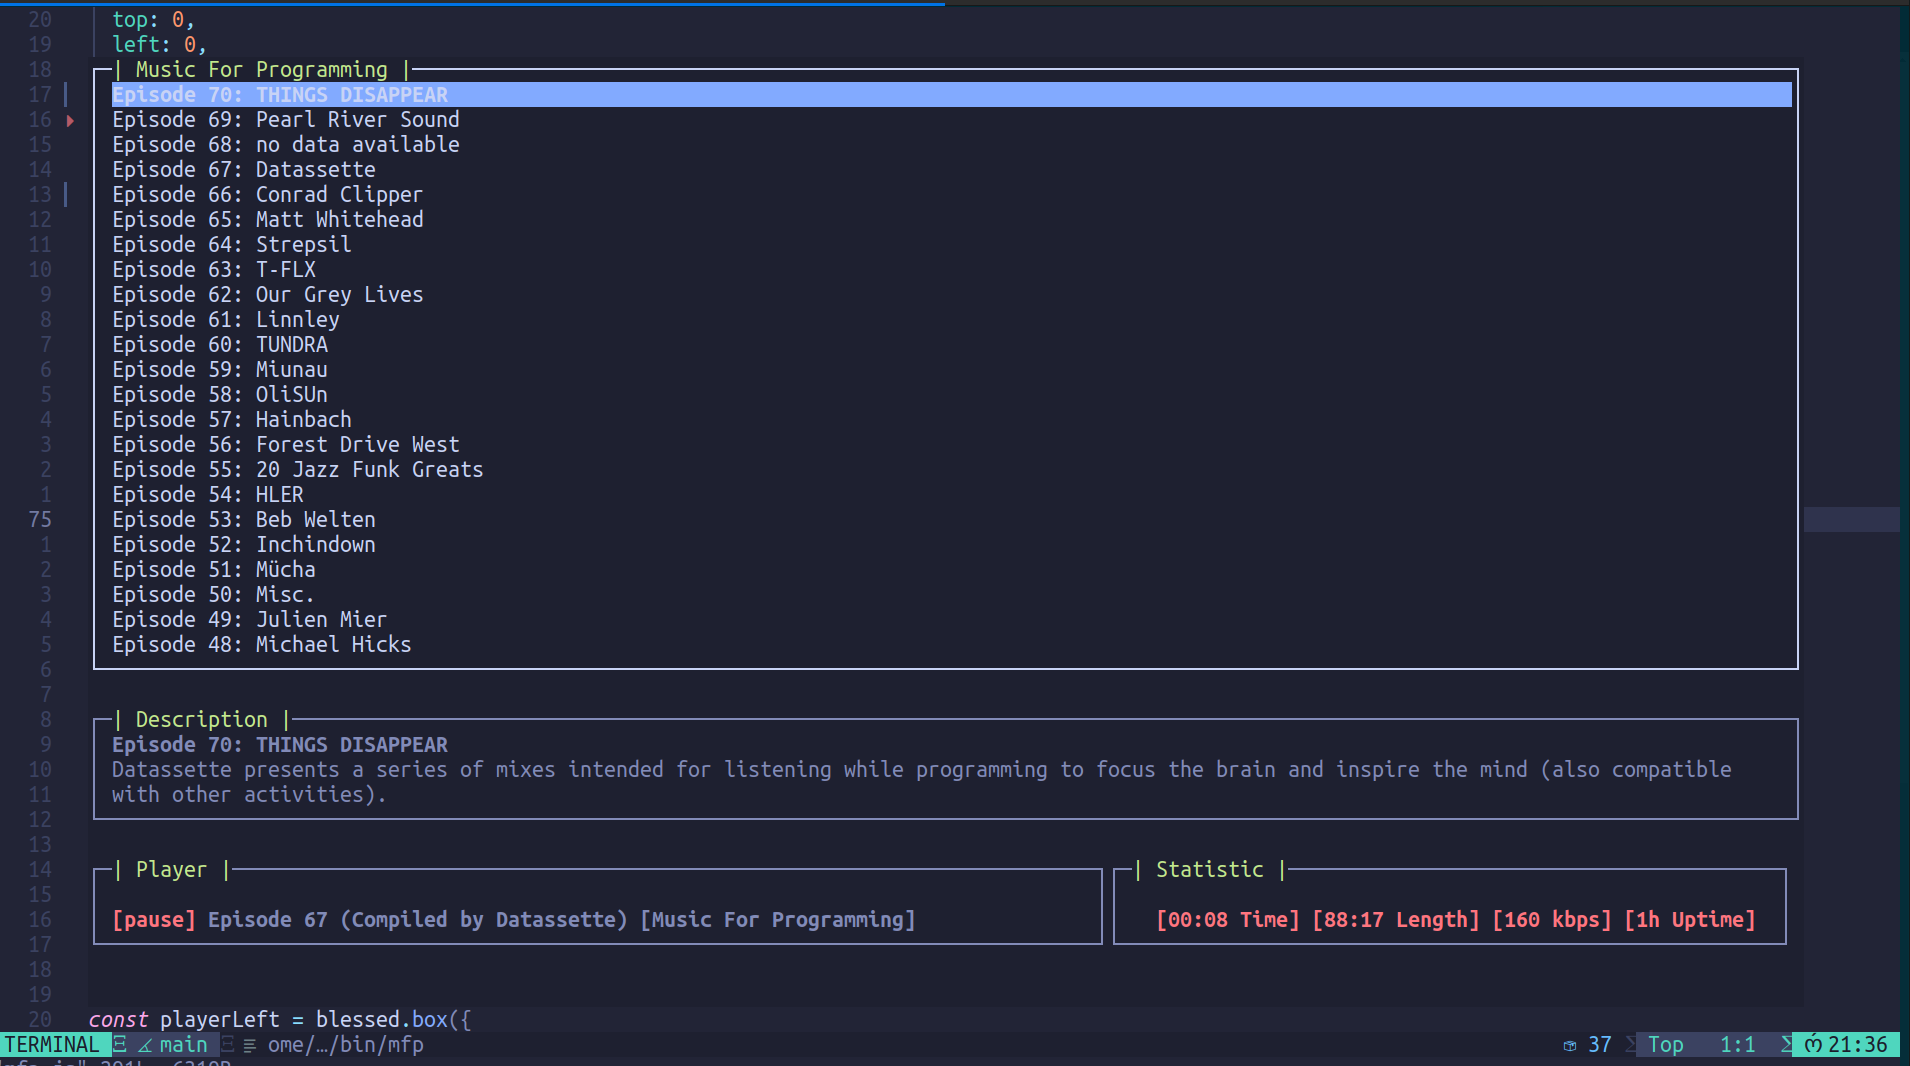
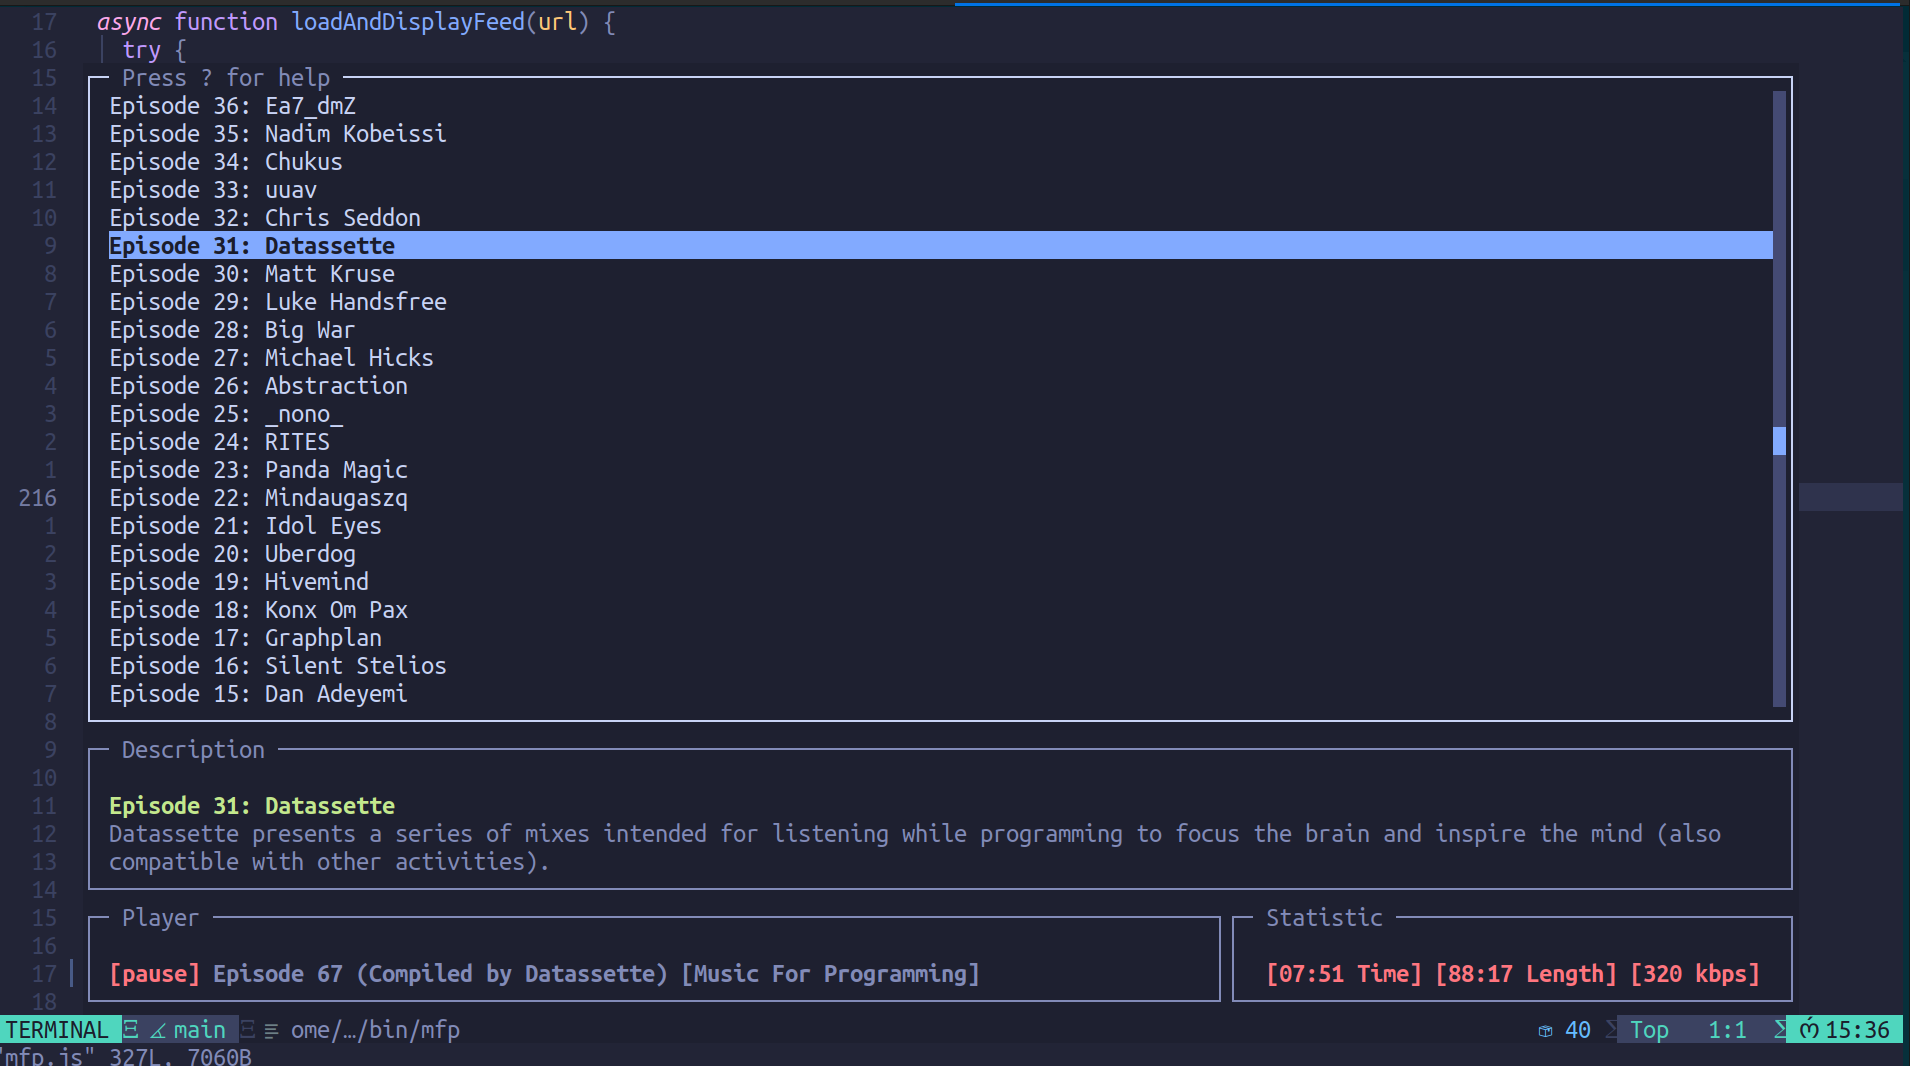
add: jump function and update UI

Changed region(s): [[0.0, 0.0, 1.0, 1.0]]

diff --git a/mfp.js b/mfp.js
@@ -46,25 +46,49 @@ const pausePlay = () => {
   musicState = !musicState;
 };
 
+const jump = (seconds) => {
+  client.sendCommand(cmd("status", []), (err, msg) => {
+    if (err) throw err;
+    const status = mpd.parseKeyValueMessage(msg);
+    if (status.state === "play") {
+      const currentTime = parseInt(status.elapsed.split(".")[0], 10);
+      const newPosition = currentTime + seconds;
+      client.sendCommand(cmd("seekcur", [`${newPosition}`]), (err) => {
+        if (err) throw err;
+      });
+    }
+  });
+};
+
 const screen = blessed.screen({
   smartCSR: true,
   title: "Music For Programming",
 });
 
 const feedList = blessed.list({
+  parent: screen,
   top: 0,
   left: 0,
   width: "100%",
   height: "71%",
   keys: true,
-  label: "| Music For Programming |",
+  label: " Press ? for help ",
   border: { type: "line" },
   padding: { left: 1 },
+  noCellBorders: true,
+  invertSelected: false,
+  scrollbar: {
+    ch: " ",
+    style: { bg: "blue" },
+    track: {
+      style: { bg: "grey" },
+    },
+  },
   style: {
     item: { hover: { bg: "blue" } },
-    selected: { bg: "blue", bold: true },
+    selected: { fg: "black", bg: "blue", bold: true },
     label: {
-      fg: "green",
+      fg: "lightgrey",
     },
   },
 });
@@ -76,30 +100,7 @@ const description = blessed.box({
   width: "100%",
   height: "18%",
   tags: true,
-  label: "| Description |",
-  border: {
-    type: "line",
-  },
-  padding: { left: 1 },
-  style: {
-    fg: "white",
-    border: {
-      fg: "white",
-    },
-    label: {
-      fg: "green",
-    },
-  },
-});
-
-const playerLeft = blessed.box({
-  parent: feedList,
-  top: "89%",
-  left: "0",
-  width: "55%",
-  height: "12%",
-  tags: true,
-  label: "| Player |",
+  label: " Description ",
   border: {
     type: "line",
   },
@@ -110,7 +111,30 @@ const playerLeft = blessed.box({
       fg: "white",
     },
     label: {
-      fg: "green",
+      fg: "lightgrey",
+    },
+  },
+});
+
+const playerLeft = blessed.box({
+  parent: feedList,
+  top: "89%",
+  left: "0",
+  width: "67%",
+  height: "12%",
+  tags: true,
+  label: " Player ",
+  border: {
+    type: "line",
+  },
+  padding: { top: 1, left: 1 },
+  style: {
+    fg: "white",
+    border: {
+      fg: "white",
+    },
+    label: {
+      fg: "lightgrey",
     },
   },
 });
@@ -118,12 +142,12 @@ const playerLeft = blessed.box({
 const playerRight = blessed.box({
   parent: feedList,
   top: "89%",
-  left: "55%",
-  width: "45%",
+  left: "67%",
+  width: "35%-2",
   height: "12%",
   align: "center",
   tags: true,
-  label: "| Statistic |",
+  label: " Statistic ",
   border: {
     type: "line",
   },
@@ -134,31 +158,34 @@ const playerRight = blessed.box({
       fg: "white",
     },
     label: {
-      fg: "green",
+      fg: "lightgrey",
     },
   },
 });
 
 const helpBox = blessed.box({
+  parent: screen,
   top: "center",
   left: "center",
   width: "50%",
-  height: "50%",
-  label: "| Help |",
-  content: `q | Esc        Detach mfp from the MPD server
+  height: "35%",
+  label: " Help ",
+  content: `q|Esc          Detach mfp from the MPD server
 ENTER          Start playing at this file
-h              Help
+SPACE          Pause/Play
 j              Move down in the list
 k              Move up in the list
+h              Jump back 10 seconds
+l              Jump forward 10 seconds
+?              Help
 q              Quit
-SPACE          Pause/Play
 `,
   border: { type: "line" },
   style: {
     border: { fg: "white" },
     fg: "white",
     label: {
-      fg: "green",
+      fg: "lightgrey",
     },
   },
   hidden: true,
@@ -203,44 +230,40 @@ screen.key("enter", () => {
 });
 
 const updateUi = () => {
-  client.sendCommand(cmd("stats", []), (err, msg) => {
+  client.sendCommand(cmd("status", []), (err, msg) => {
     if (err) throw err;
-    const data = mpd.parseKeyValueMessage(msg);
-    const uptime = Math.round(data.uptime / 3600);
+    const status = mpd.parseKeyValueMessage(msg);
+    const elapsed = formatSeconds(status.elapsed);
+    const duration = formatSeconds(status.duration);
+    const state =
+      status.state === "play"
+        ? "{green-fg}[play]{/green-fg}"
+        : "{red-fg}[pause]{/red-fg}";
+    const bitrate = status.bitrate + " kbps";
 
-    client.sendCommand(cmd("status", []), (err, msg) => {
+    client.sendCommand(cmd("currentsong", []), (err, msg) => {
       if (err) throw err;
-      const status = mpd.parseKeyValueMessage(msg);
-      const elapsed = formatSeconds(status.elapsed);
-      const duration = formatSeconds(status.duration);
-      const state =
-        status.state === "play"
-          ? "{green-fg}[play]{/green-fg}"
-          : "{red-fg}[pause]{/red-fg}";
-      const bitrate = status.bitrate + " kbps";
+      const songInfo = mpd.parseKeyValueMessage(msg).Title;
+      const artist = mpd.parseKeyValueMessage(msg).Artist;
+      const selectedItem = feedList.getItem(feedList.selected).getContent();
+      const content = `{bold}${state} ${songInfo} [${artist}]{/bold}`;
+      const instruments = `{bold}{red-fg}[${elapsed} Time] [${duration} Length] [${bitrate}]{/red-fg}{/bold}`;
 
-      client.sendCommand(cmd("currentsong", []), (err, msg) => {
-        if (err) throw err;
-        const songInfo = mpd.parseKeyValueMessage(msg).Title;
-        const artist = mpd.parseKeyValueMessage(msg).Artist;
-        const selectedItem = feedList.getItem(feedList.selected).getContent();
-        const content = `{bold}${state} ${songInfo} [${artist}]{/bold}`;
-        const instruments = `{bold}{red-fg}[${elapsed} Time] [${duration} Length] [${bitrate}] [${uptime}h Uptime]{/red-fg}{/bold}`;
-
-        playerLeft.setContent(content);
-        playerRight.setContent(instruments);
-        description.setContent(
-          `{bold}${selectedItem}{/bold}` + "\n" + music[selectedItem].content,
-        );
-        screen.render();
-      });
+      playerLeft.setContent(content);
+      playerRight.setContent(instruments);
+      description.setContent(
+        `{bold}{green-fg}${selectedItem}{/green-fg}{/bold}` +
+          "\n" +
+          music[selectedItem].content,
+      );
+      screen.render();
     });
   });
 };
 
 setInterval(updateUi, 800);
 
-screen.key("h", function () {
+screen.key("?", function () {
   if (helpBox.hidden) {
     screen.append(helpBox);
     helpBox.show();
@@ -291,6 +314,14 @@ screen.key(["j"], (_ch, _key) => {
 screen.key(["k"], (_ch, _key) => {
   feedList.up();
   screen.render();
+});
+
+screen.key(["h"], (_ch, _key) => {
+  jump(-10);
+});
+
+screen.key(["l"], (_ch, _key) => {
+  jump(10);
 });
 
 screen.render();

diff --git a/README.md b/README.md
@@ -52,6 +52,7 @@ MFP_HOST default: "localhost",
 git clone git@github.com:tinoschroeter/mfp.git
 cd mfp
 
+npm install
 npm install -g .
 ```
 
